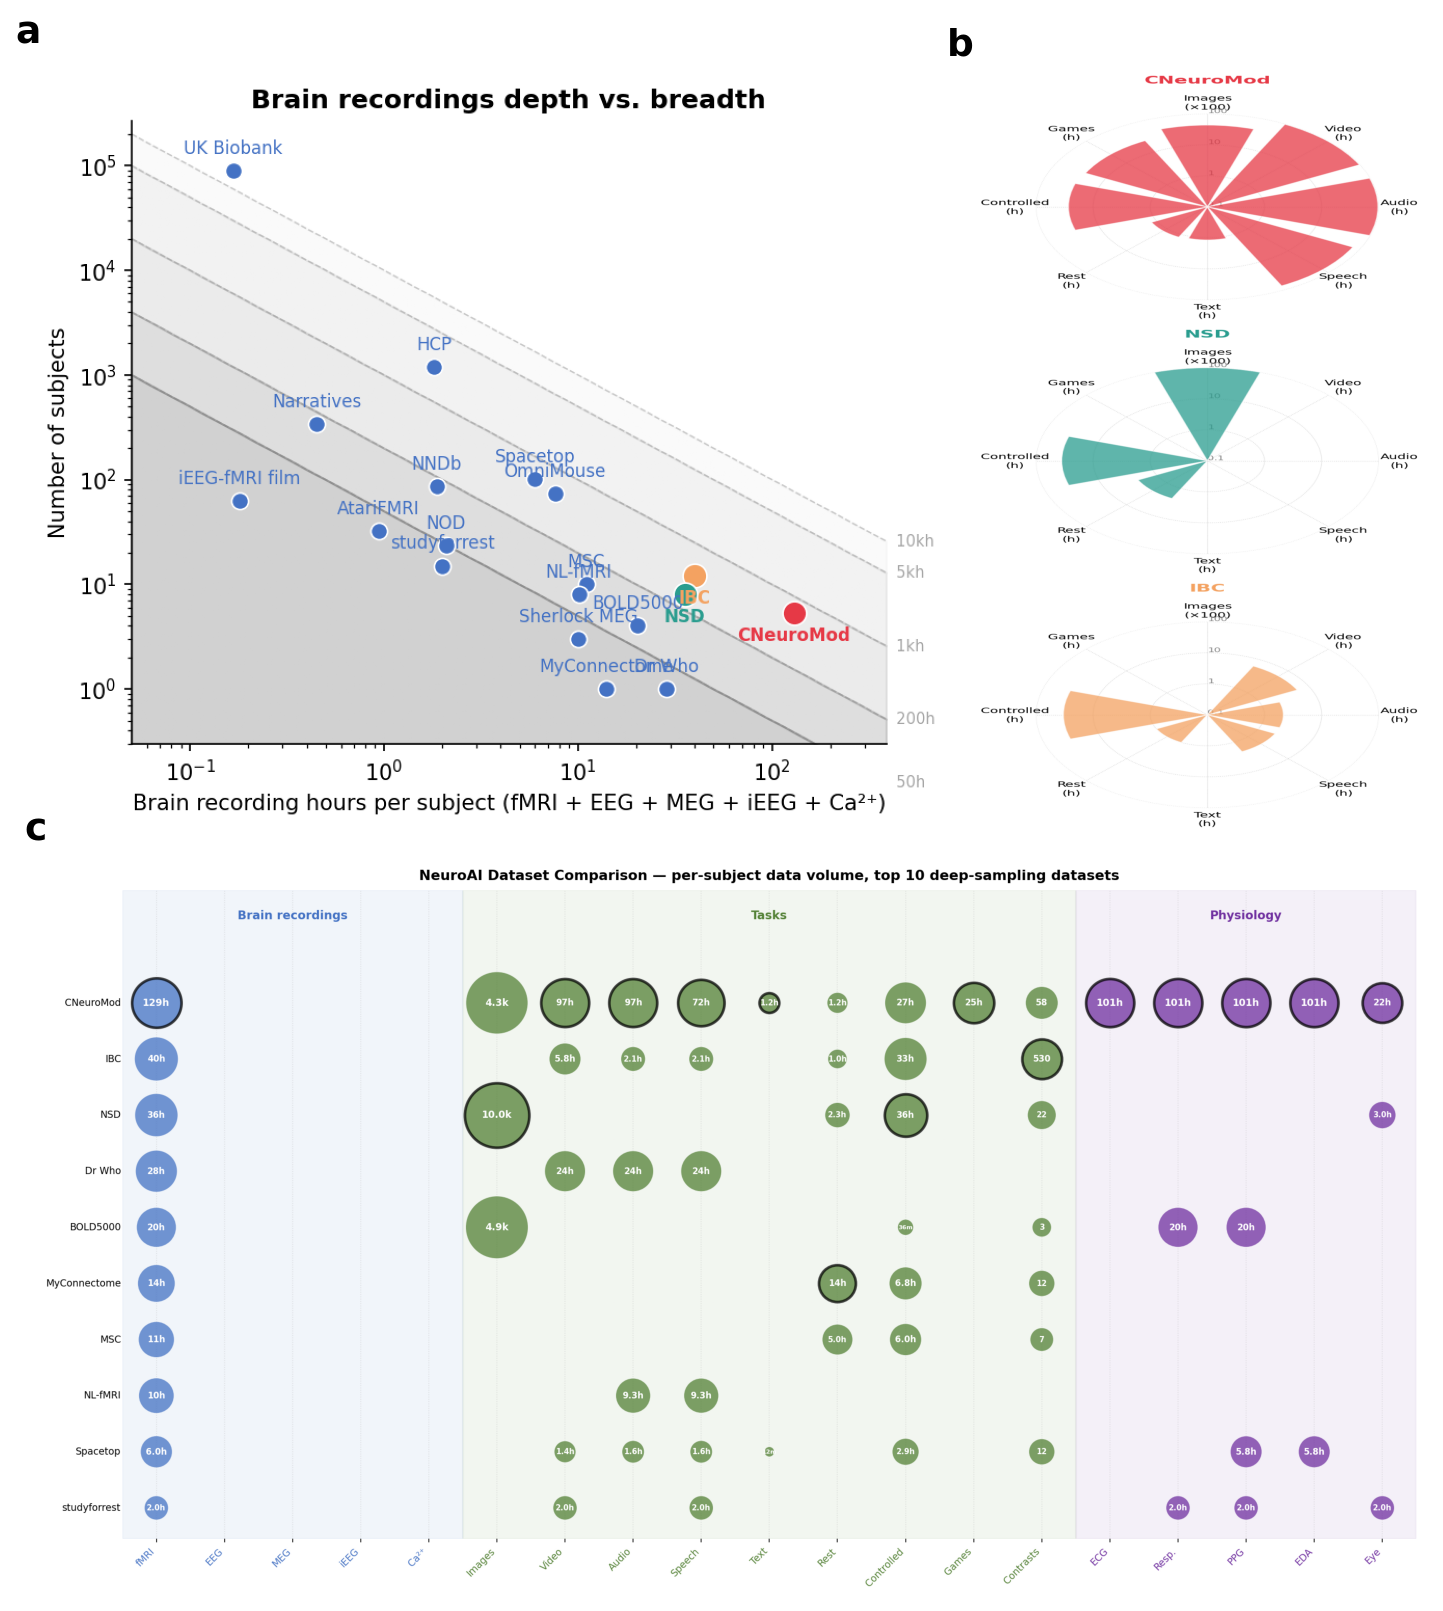
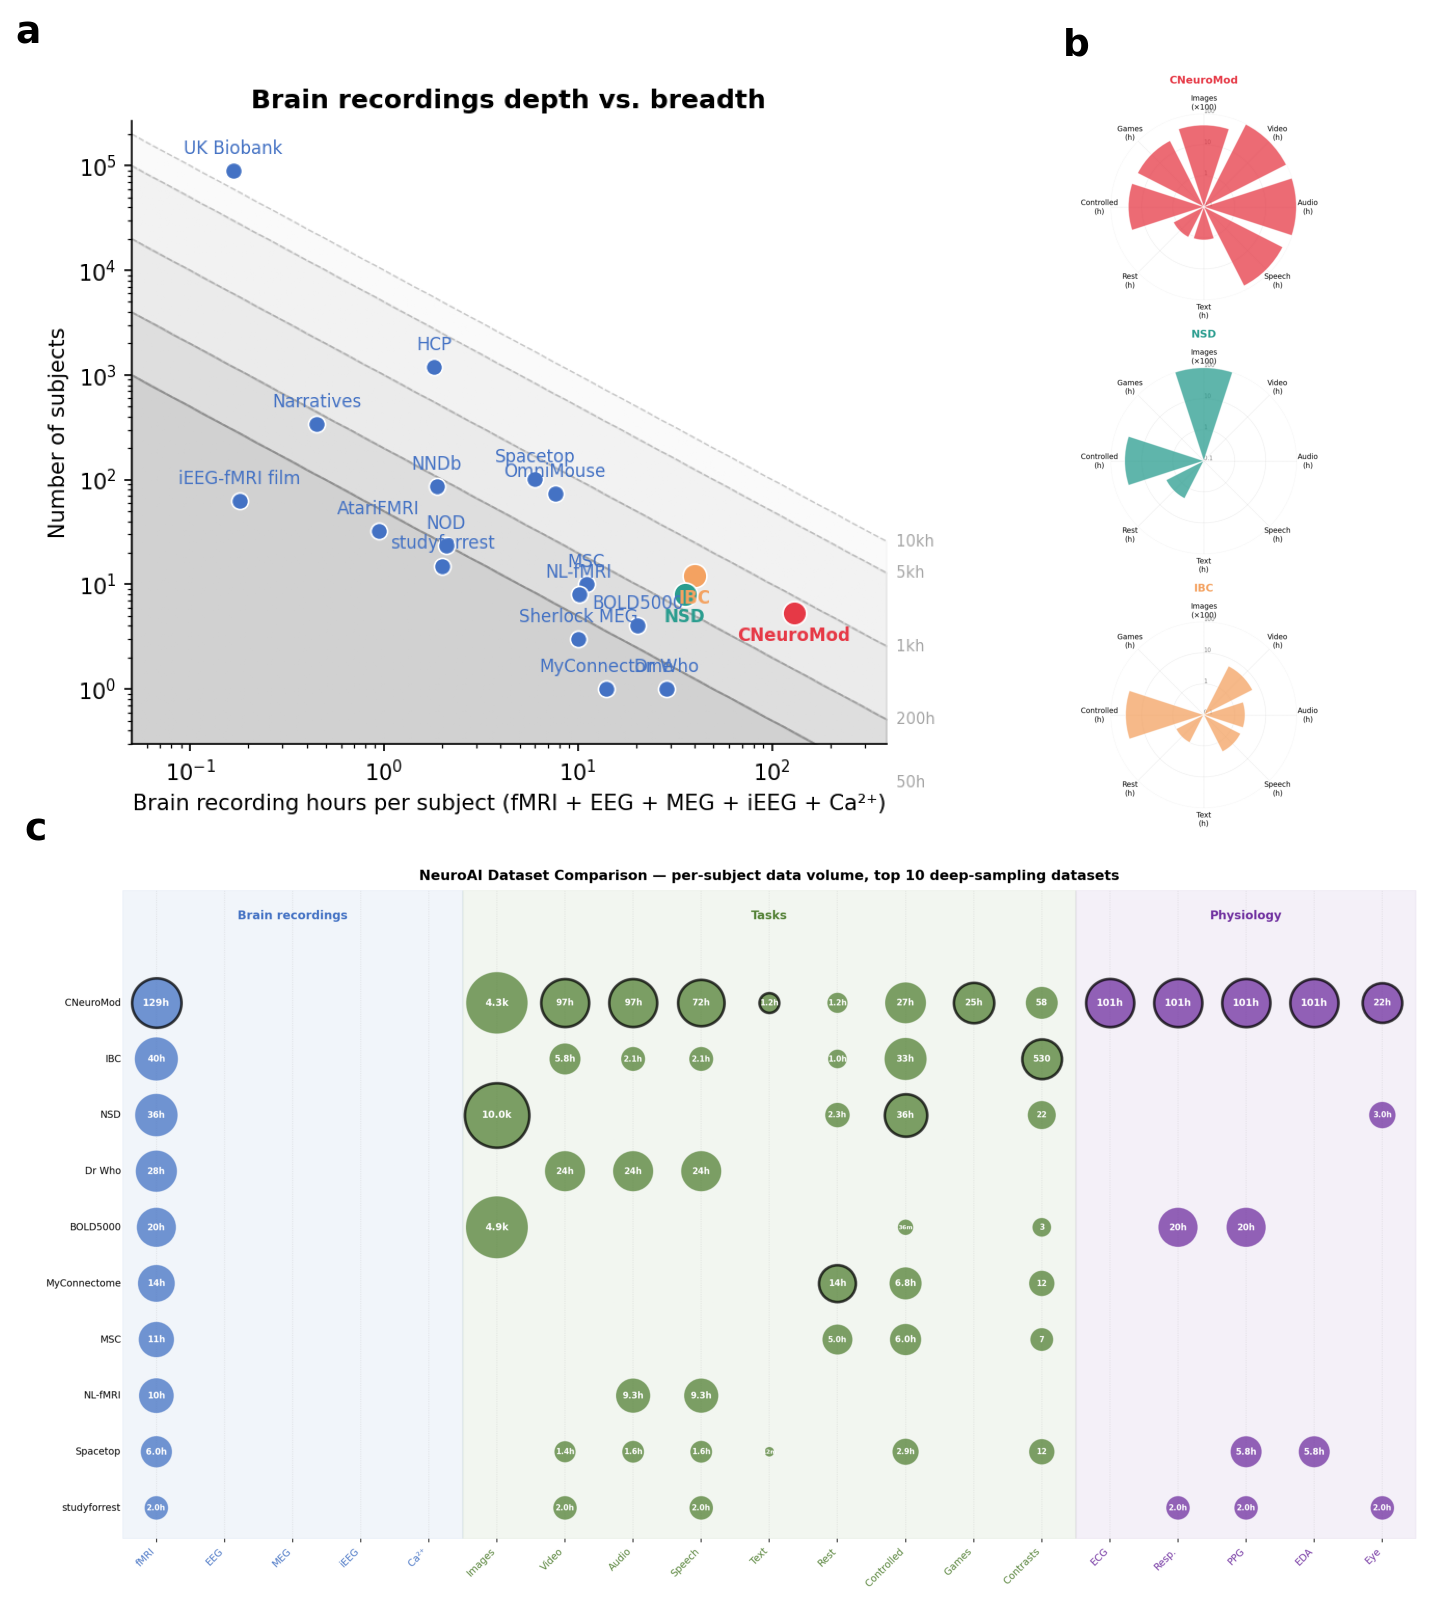
Preserve radar chart aspect ratios in combined figure

diff --git a/paper/intro.md b/paper/intro.md
@@ -61,7 +61,7 @@ ax_a.text(-0.02, 1.03, 'a', transform=ax_a.transAxes,
 gs_b = gridspec.GridSpecFromSubplotSpec(3, 1, subplot_spec=gs_top[1], hspace=0.0)
 for i, img in enumerate([img_b1, img_b2, img_b3]):
     ax = fig.add_subplot(gs_b[i])
-    ax.imshow(img, aspect='auto')
+    ax.imshow(img)
     ax.axis('off')
     if i == 0:
         ax.text(-0.05, 1.03, 'b', transform=ax.transAxes,
